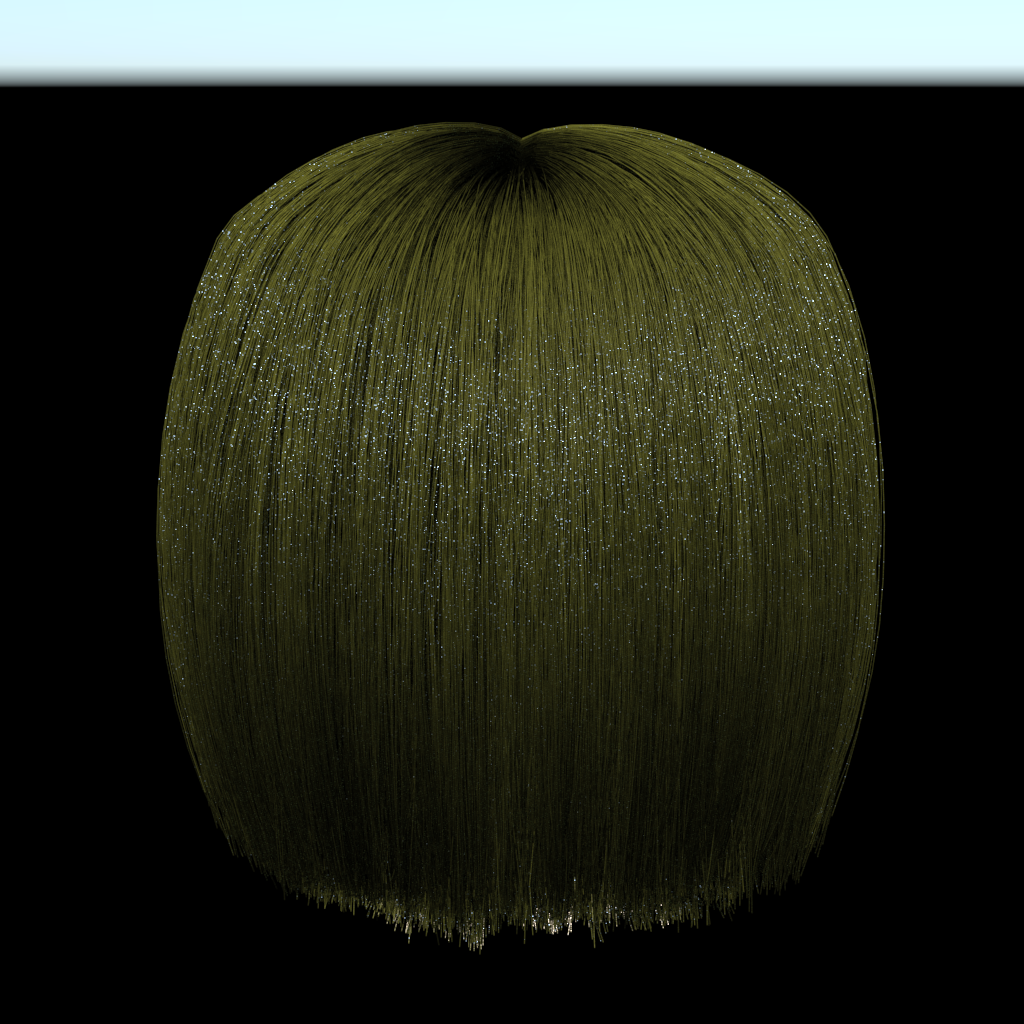
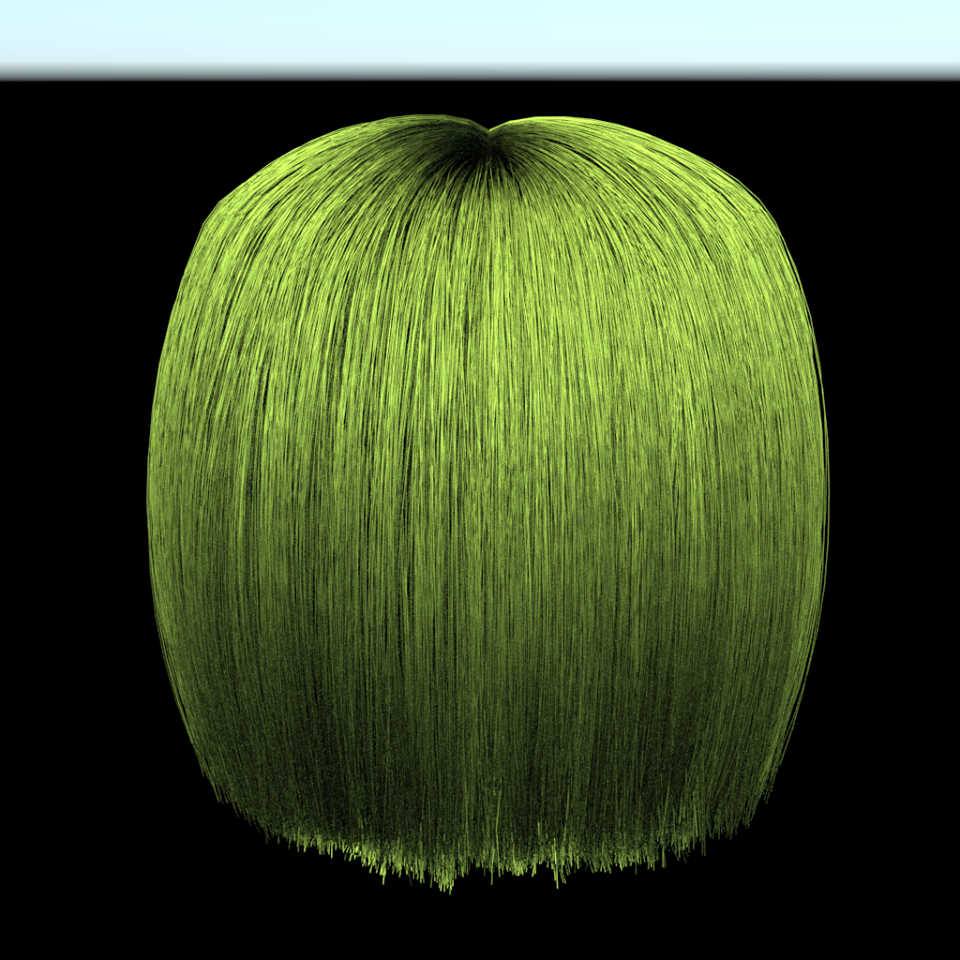
updated report

diff --git a/index.html b/index.html
@@ -22,9 +22,6 @@
 		display: block;
 		margin: auto;
 	}
-	.res-img {
-		width: 100%;
-	}
 	</style>
 	<title>Hair Rendering</title>
 	<meta http-equiv="content-type" content="text/html; charset=utf-8" />
@@ -47,8 +44,8 @@
 
 		<h1> Implementation </h1>
 			<h2> The Model </h2>
-				<p> The model we used is based on Stephen Marschner's hair scattering model, extended by Eugene d'Eon (both cited in references). The model consists of two parts: longitudinal scattering and azimuthal scattering. Each part has three main components of light transport: single reflectance R (reflected once off the hair fiber), double transmittance TT (refracted into and out of the hair fiber), and trans-ref-trans TRT (refracted, reflected within hair fiber, and refracted again).</p>
-				<p> The scattering model represents each hair fiber as a cylindrical shape. The shape can be viewed as a group of stacked cones, giving the fiber its rough surface. Figure 1 shows how the model represents a hair fiber (the variables will be discussed). </p>
+				<p> The model we used is based on Stephen Marschner's hair scattering model, extended by Eugene d'Eon (both cited in references). The model consists of two parts: longitudinal scattering and azimuthal scattering. Each part consists of three main components of light scattering: single reflectance R (reflected once off the rough surface of the hair fiber), double transmittance TT (refracted into and out of the hair fiber), and trans-ref-trans TRT (refracted, reflected within hair fiber, and refracted again).</p>
+				<p> The scattering model represents each hair fiber as a cylindrical shape with a rough surface, caused by the scales that cover our hair fibers. The shape can be viewed as a group of stacked cones, giving the fiber its rough surface. Figure 1 shows how the model represents a hair fiber (the variables will be discussed). </p>
 				<figure>
 					<img src="img/report/hair-fiber.png"/>
 					<figcaption> Figure 1 - Rough cylindrical hair fiber </figcaption>
@@ -59,7 +56,7 @@
 				<ul>
 					<li> R - single reflectance: responsible for primary specular lighting. It is shifted towards the root due to the scales of hair fiber </li>
 					<li> TT - double transmittance: forward scattering component. Lighter color hair becomes bright when lit from behind (light rays go through the hair) </p>
-					<li> TRT - transmittance-reflectance-transmittance: secondary lighting, weaker than specular, but creates a diffuse gradient in hair
+					<li> TRT - transmittance-reflectance-transmittance: secondary lighting, weaker than specular, and creates a diffuse gradient in hair.
 				</ul>
 				<p> In our model, we found that the R component is miniscule compared to the other two components. Because of this, we scaled R by a large constant value to bring out specular highlights.</p>
 
@@ -75,27 +72,27 @@
 				<p> where <em>theta_h</em> is the half angle of the incident and outgoing angles and <em>g</em> is the Gaussian function: </p>
 				<img src="img/report/gp.png"/>
 				<p> The <em>p</em> parameter represents the reflectance/transmittance component, where R = 0, TT = 1, and TRT = 2. These values will be used explicitly in the azimuthal scattering model.</p>
-				<p> Marschner's paper provided a range of 5 to 10 degree for beta and a range of -5 to -10 degree for alpha. Through manual testing, we found that the optimal degrees are approximately -6 and 6 degree for alpha and beta respectively. Results can be found below, but we discovered that a higher beta value saturates the render to a more even gradient.</p>
+				<p> Marschner's paper provided a range of 5 to 10 degrees for beta and a range of -5 to -10 degrees for alpha. Through manual testing, we found that the optimal degrees are approximately -6 and 6 degrees for alpha and beta respectively. Results can be found below, but we discovered that a higher beta value desaturates the render to a more even gradient.</p>
 
 			<h2> Azimuthal Scattering </h2>
-				<p> The azimuthal scattering model is more complex than the longitudinal scattering model. This model looks at the hair fiber from a 'straight view'. The hair fiber is now modeled as a circular cross section and the position of the light ray hitting the fiber is taken into account.</p>
+				<p> The azimuthal scattering model requires more computation than the longitudinal scattering model. This model looks at the hair fiber from a 'straight view'. The hair fiber is now modeled as a circular cross section, taking the position of the light ray hitting the fiber into account.</p>
 				<figure>
 					<img src="img/report/az.png"/>
 					<figcaption> Figure 3 - Azimuthal perspective </figcaption>
 				</figure>
-				<p> The diagram shows an <em>h</em> value that represents the offset from the center of the circle where the light ray hits the hair fiber. This matters in how light is reflected and transmitted within the hair fiber. From the discussion of h, there are two approaches outlined by Marschner's and d'Eon's papers:
+				<p> The diagram shows an <em>h</em> value that represents the offset from the center of the circle where the light ray hits the hair fiber. This affects how light is reflected and transmitted within the hair fiber. For the discussion of h, the ray offset from the surface normal, there are two approaches outlined by Marschner's and d'Eon's papers:
 					<ul>
-						<li> Near field model: for rendering zoomed-in shots of hair fibers. This model calculates the exact h value based on the intersection information. This makes the model accurate for zoomed-in shots.</li>
-						<li> Far field model: for rendering zoomed-out shots of hair as a collective. This model approximates that a light ray hits the entirety of a hair fiber and integrates the offset h over the azimuthal surface.</li>
+						<li> Far field model: better for rendering zoomed-out shots of hair as a collective. This model approximates that a light ray hits the entirety of a hair fiber due to its small width, often smaller than a single pixel. It integrates the offset h over the azimuthal surface.</li>
+						<li> Near field model: better for rendering zoomed-in shots of hair fibers. This model calculates the exact h value based on the intersection information. This makes the model accurate for zoomed-in shots.</li>
 					</ul>
-				We performed two approaches in including h in the model: (1) randomizing h in a range (approximately equivalent to the far field model) and (2) fixing h to be a constant (for computational efficiency). We found that h within a range of 0.45 - 0.60 produces optimal renders. This finding came from manual testing.</p>
+				We decided to implement the far-field model. We performed two approaches for including h in the model in order to avoid the messy integration: (1) randomizing h in a range [-1, 1] and (2) fixing h to be a constant (for computational efficiency). We found that h within a range of 0.45 - 0.60 pleasing renders, while randomized h made for better looking specular highlights. This finding came from manual testing.</p>
 				<p>The azimuthal scatter is modeled by the function <em>N</em>, as described by: </p>
 				<img src="img/report/Np.png"/>
-				<p>The azimuthal scatter model depends on two terms: A and D. A is the attenuation of light depending on where the light ray hits the hair fiber (i.e. hitting right at the center would result in no attenuation). D is the Gaussian distribution of exitant azimuths (where the exiting ray is likely to point). Note: the above model is an integration, which is a far field model. Our model ignores the integration and uses h as mentioned in the above two methods (random and fixed).</p>
+				<p>The azimuthal scattering model depends on two terms: A and D. A is the attenuation of light depending on where the light ray hits the hair fiber (i.e. hitting right at the center would result in no attenuation). D is the Gaussian distribution of exitant azimuths (where the exiting ray is likely to point). Note: the above model is an integration, which is a far field model. Our model ignores the integration and uses h as mentioned in the above two methods (random and fixed).</p>
 				<h3>Gaussian distribution D</h3>
 					<p> D is described by: </p>
 					<img src="img/report/D.png"/>
-					<p> In our model, we did not sum from negative infinity to positive infinity, but approximated the summation with k = -1, 0, and 1. The Phi term in the N function is defined by:</p>
+					<p> In our model, rather than sum from negative infinity to positive infinity, we approximated the summation with k = -1, 0, and 1. The Phi term in the N function is defined by:</p>
 					<img src="img/report/Phi.png"/>
 					<p> and eta_prime, a modified index of refraction to take into account the roughness of the fiber, is </p>
 					<img src="img/report/eta_prime.png"/>
@@ -107,108 +104,114 @@
 					<img src="img/report/T.png"/>
 					<p> where mu_prime is the (reduced) absorption coefficient of the hair, theta_d is the difference angle between the incident and outgoing angles, and the gamma_t term is defined above under the Gaussian distribution D.</p>
 			<h2> Absorption Coefficient </h2>
-				<p>The absorption coefficient describes color of the hair fiber. The coefficent is given in a {r, g, b} vector. In both papers, it is assumed that the coefficient is uniform throughout the whole fiber and it is changed in our model to render different colors of hair.</p>
+				<p>The absorption coefficient describes color of the hair fiber, comprised of the absorption cross sections of eumelanin and pheomelanin. The coefficent is given in a {r, g, b} vector. In both papers, it is assumed that the coefficient is uniform throughout the whole fiber and it is changed in our model to render different colors of hair.</p>
 
 		<h1> Results </h1>
-			<h2> Changing h offset values </h2>
-				<table>
-					<tr>
-						<td>
-							<figure>
-								<img class="res-img" src="img/h04.png">
-								<figcaption>h = 0.4</figcaption>
-							</figure>
-						</td>
-						<td>
-							<figure>
-								<img class="res-img" src="img/h05.png">
-								<figcaption>h = 0.5</figcaption>
-							</figure>
-						</td>
-						<td>
-							<figure>
-								<img class="res-img" src="img/h06.png">
-								<figcaption>h = 0.6</figcaption>
-							</figure>
-						</td>
-					</tr>
-				</table>
-			<h2> Changing beta value with fixed alpha (alpha = -0.1 radians) </h2>
-				<table>
-					<tr>
-						<td>
-							<figure>
-								<img class="res-img" src="img/beta01.png">
-								<figcaption>beta = 0.1 (radians)</figcaption>
-							</figure>
-						</td>
-						<td>
-							<figure>
-								<img class="res-img" src="img/beta02.png">
-								<figcaption>beta = 0.2</figcaption>
-							</figure>
-						</td>
-						<td>
-							<figure>
-								<img class="res-img" src="img/beta03.png">
-								<figcaption>beta = 0.3</figcaption>
-							</figure>
-						</td>
-					</tr>
-				</table>
-			<h2> Changing h offset value with a scaled R component </h2>
-				<table>
-					<tr>
-						<td>
-							<figure>
-								<img class="res-img" src="img/scaled_R.png">
-								<figcaption>h = 0.6</figcaption>
-							</figure>
-						</td>
-						<td>
-							<figure>
-								<img class="res-img" src="img/scaled_R_2.png">
-								<figcaption>h = 0.61</figcaption>
-							</figure>
-						</td>
-						<td>
-							<figure>
-								<img class="res-img" src="img/scaled_R_3.png">
-								<figcaption> h = 0.616</figcaption>
-							</figure>
-						</td>
-					</tr>
-				</table>
-			<h2> Changing absorption coefficient for coloring </h2>
-				<table>
-					<tr>
-						<td>
-							<figure>
-								<img class="res-img" src="img/green.png">
-								<figcaption>Green</figcaption>
-							</figure>
-						</td>
-						<td>
-							<figure>
-								<img class="res-img" src="img/purple.png">
-								<figcaption>Purple</figcaption>
-							</figure>
-						</td>
-						<td>
-							<figure>
-								<img class="res-img" src="img/red.png">
-								<figcaption> Orange</figcaption>
-							</figure>
-						</td>
-					</tr>
-				</table>
+		<p>First, we observe the differences with different beta values, without specular highlights.</p>
+		<div align="middle">
+		  <table style="width=100%">
+		    <tr>
+		      <td>
+		        <img src="img/alpha01beta01.png" align="middle" width="400px"/>
+		        <figcaption align="middle">beta = 0.1</figcaption>
+		      </td>
+		      <td>
+		        <img src="img/alpha01beta02.png" align="middle" width="400px"/>
+		        <figcaption align="middle">beta = 0.2</figcaption>
+		      </td>
+		      <td>
+		        <img src="img/alpha01beta03.png" align="middle" width="400px"/>
+		        <figcaption align="middle">beta = 0.3</figcaption>
+		      </td>
+		    </tr>
+		  </table>
+		</div>
 
+		<p>Now, lets observe the results of having fixed h, as well as randomized h.</p>
+		<div align="middle">
+		  <table style="width=100%">
+		    <tr>
+		      <td>
+		        <img src="img/h04.png" align="middle" width="400px"/>
+		        <figcaption align="middle">h = 0.4</figcaption>
+		      </td>
+		      <td>
+		        <img src="img/h05.png" align="middle" width="400px"/>
+		        <figcaption align="middle">h = 0.5</figcaption>
+		      </td>
+		      <td>
+		        <img src="img/h06.png" align="middle" width="400px"/>
+		        <figcaption align="middle">h = 0.6</figcaption>
+		      </td>
+		    </tr>
+		  </table>
+		</div>
 
+		<p>We now include the specular component using a fixed h of 0.616, and how different scalars change its impact.</p>
+		<div align="middle">
+		  <table style="width=100%">
+		    <tr>
+		      <td>
+		        <img src="img/scaled_R.png" align="middle" width="400px"/>
+		        <figcaption align="middle">High scalar</figcaption>
+		      </td>
+		      <td>
+		        <img src="img/scaled_R_2.png" align="middle" width="400px"/>
+		        <figcaption align="middle">Medium scalar</figcaption>
+		      </td>
+		      <td>
+		        <img src="img/scaled_R_3.png" align="middle" width="400px"/>
+		        <figcaption align="middle">Small scalar</figcaption>
+		      </td>
+		    </tr>
+		  </table>
+		</div>
+
+		<p>With a small scalar, we also rendered different hair colors by changing the absorption coefficients of eumelanin and pheomelanin.</p>
+		<div align="middle">
+		  <table style="width=100%">
+		    <tr>
+		      <td>
+		        <img src="img/all.png" align="middle" width="400px"/>
+		        <figcaption align="middle">Purple</figcaption>
+		      </td>
+		      <td>
+		        <img src="img/+1+39-7e19h616.png" align="middle" width="400px"/>
+		        <figcaption align="middle">Green</figcaption>
+		      </td>
+		      <td>
+		        <img src="img/+4+6-2-1e19h616.png" align="middle" width="400px"/>
+		        <figcaption align="middle">Red</figcaption>
+		      </td>
+		    </tr>
+		  </table>
+		</div>
+
+		<p>We also rendered specular highlights using random h. This required a significantly small scalar, but was still needed to make highlights visible. These highlights look more convincing.</p>
+		<div align="middle">
+		  <table style="width=100%">
+		    <tr>
+		      <td>
+		        <img src="img/randhx100.png" align="middle" width="400px"/>
+		        <figcaption align="middle">Brown</figcaption>
+		      </td>
+		      <td>
+		        <img src="img/greenx100.png" align="middle" width="400px"/>
+		        <figcaption align="middle">Green</figcaption>
+		      </td>
+		      <td>
+		        <img src="img/redx100.png" align="middle" width="400px"/>
+		        <figcaption align="middle">Red</figcaption>
+		      </td>
+		    </tr>
+		  </table>
+		</div>
 
 		<h1> Problems </h1>
 		<ul>
 			<li> <strong>h offset integration</strong>: For azimuthal scattering, we did not know how to integrate over h in C++ code, so we could not fully take advantage of the far field model given to us. Because of this, we resorted to randomizing h, which is an approximate equivalence of integrating, though it produces more noise </li>
 			<li> <strong>h offset calculation</strong>: We did not know how to calculate h based on the intersection information given to us by the Mitsuba renderer, so we also could not fully take advantage of the near field model. We replaced this by substituting a fixed h.</li>
+			<li> <strong>R component</strong>: We had trouble making the specular component show, until we realized it was very small compared to the rest of the components. Furthermore it did not converge well like the rest of the values, resulting in very noisy highlights. It took much experimentation to find the best amount we could.</li>
 		</ul>
 
 
@@ -216,8 +219,8 @@
 		<ul>
 			<li> How to build a custom BSDF in Mitsuba </li>
 			<li> Hair is hard to model due to its collective as well as individual behavior </li> 
-			<li> An accurate, physically-based hair rendering model </li>
-			<li> Mitsuba is hard to develop in </li>
+			<li> The math behind an accurate, physically-based hair rendering model </li>
+			<li> Mitsuba is not very simple to develop in </li>
 		</ul>
 
 
@@ -225,10 +228,11 @@
 		<p><a href="http://graphics.stanford.edu/papers/hair/hair-sg03final.pdf">Light Scattering from Human Hair Fibers - Stephen Marschner </a></p>
 		<p><a href="http://www.eugenedeon.com/wp-content/uploads/2014/04/egsrhair.pdf">An Energy Conserving Hair Reflectance Model - Eugene d'Eon</a></p>
 		<p><a href="http://mitsuba-renderer.org">Mitsuba Renderer</a></p>
-		<p><a href="https://benedikt-bitterli.me/resources/"> Benedikt Bitterli hair model </a></p>
+		<p><a href="https://benedikt-bitterli.me/resources/"> Benedikt Bitterli's hair model </a></p>
 
 		<h1> Contributions </h1>
 		<p> <strong>Michael Wan</strong> - summarized mathematical model of hair scattering; came up with fixed h approach; came up with R scale approach; tested different h settings; tested diferent R scale settings </p>
 		<p> <strong> Quan Huynh</strong> - implemented mathematical functions in bsdf code; came up with randomized h approach; tested different alpha and beta settings; created presentation slides and report </p>
+		<p> Though in the end we collaborated a lot on all aspects of the project. </p>
 	</body>
 	</html>
